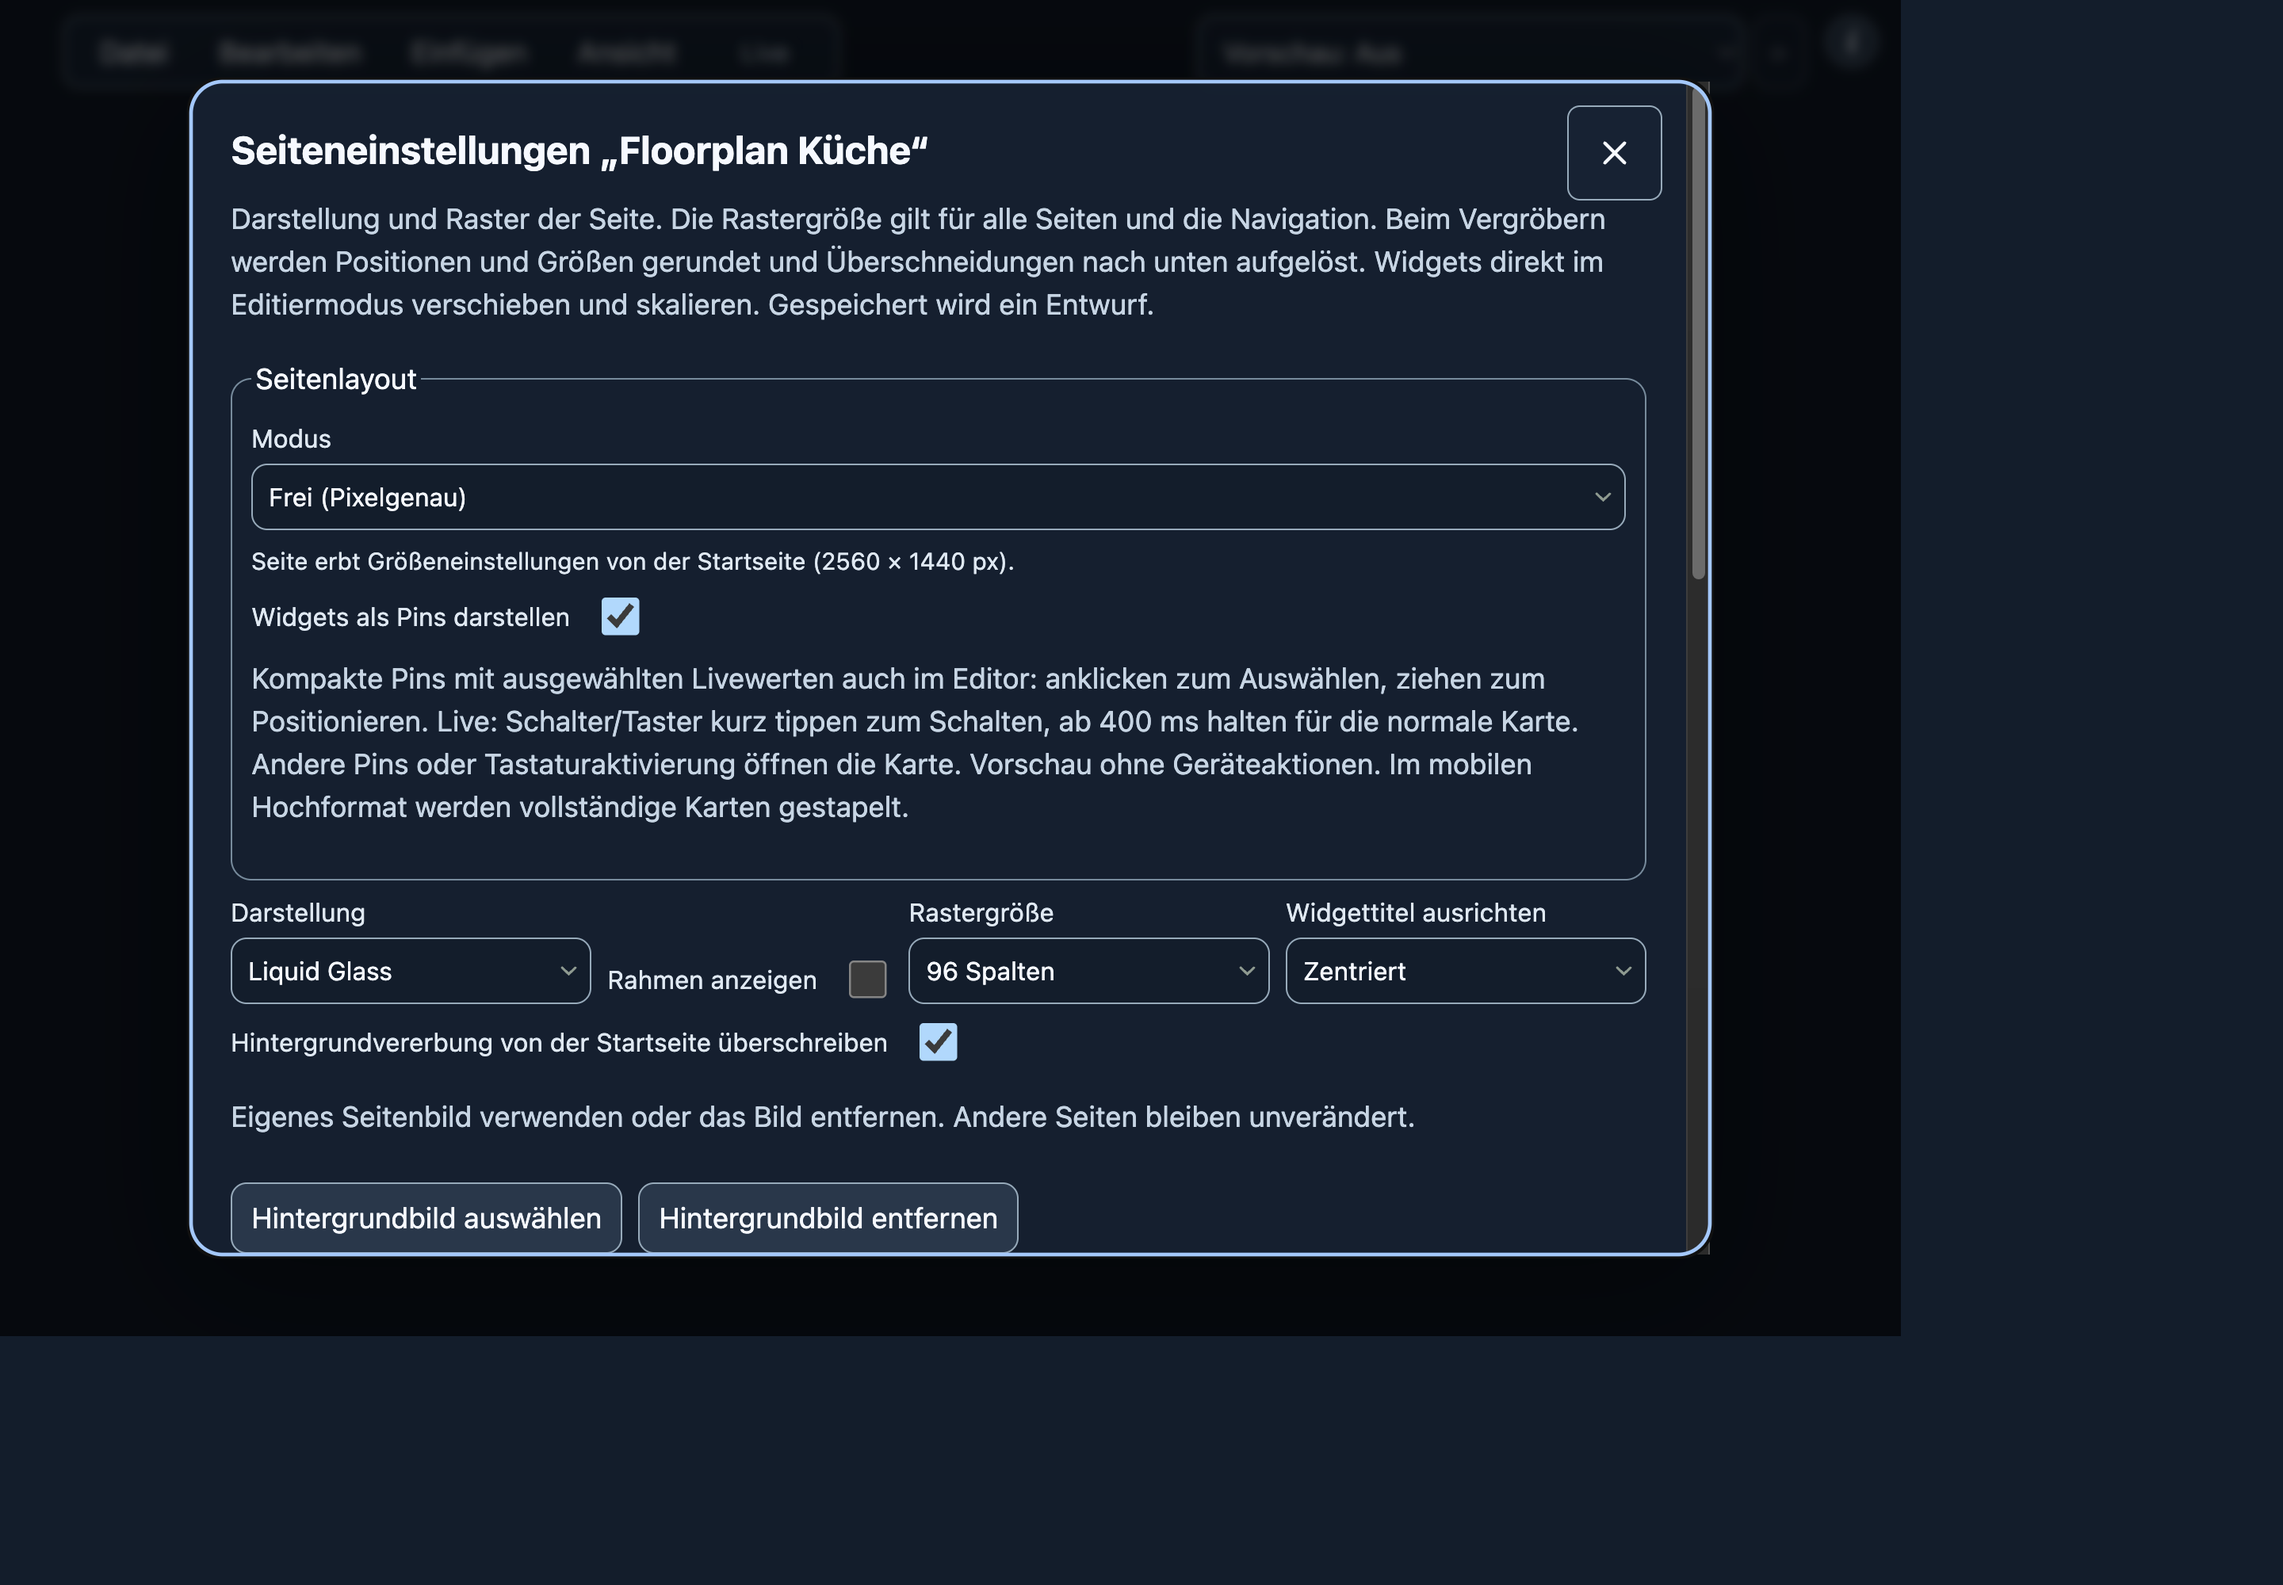
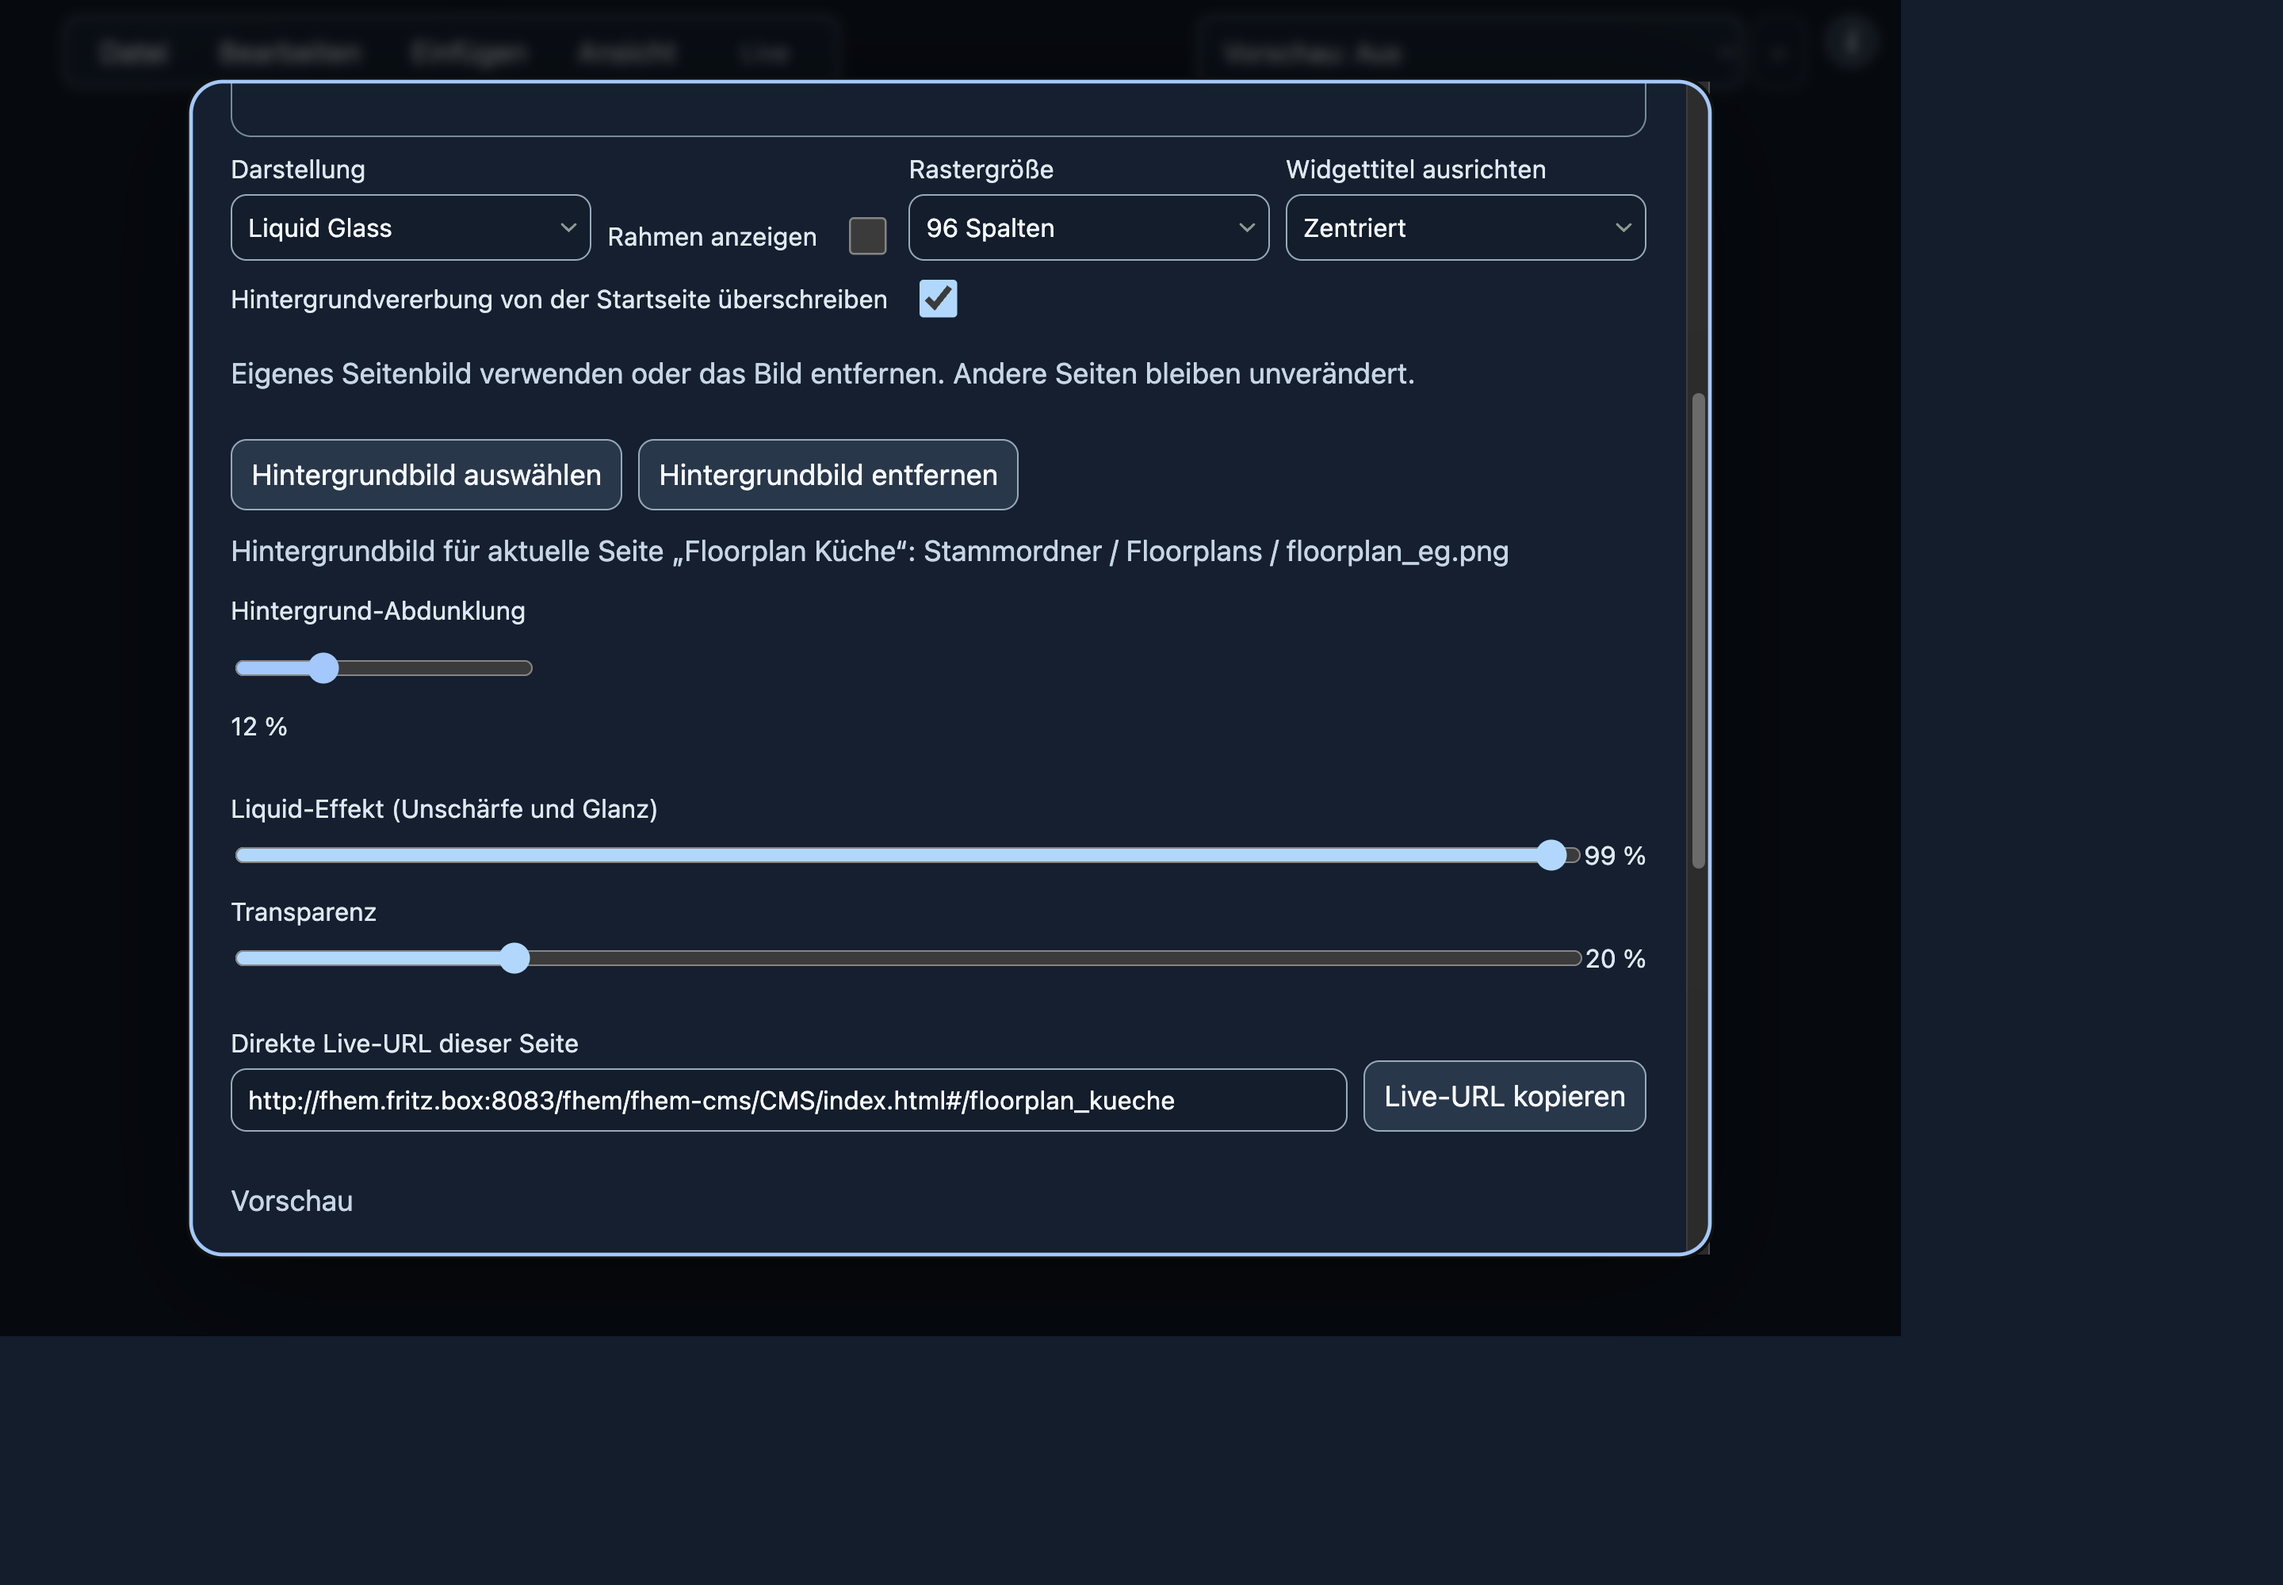
chore(release): prepare approved Floorplan 1.14.0 documentation and version
Refs #253

Changed region(s): [[0.0938, 0.062, 0.75, 0.713], [0.0938, 0.744, 0.4688, 0.806]]

diff --git a/www/fhem-cms/js/frontend-version.js b/www/fhem-cms/js/frontend-version.js
@@ -1,1 +1,1 @@
-export const FRONTEND_VERSION = '1.30.3-dev';
+export const FRONTEND_VERSION = '1.14.0';

diff --git a/README.md b/README.md
@@ -2,7 +2,25 @@
 
 Frontend zur Erstellung grafischer Oberflächen für FHEM, einschließlich freier Seiten und Inhalte wie in einem klassischen Content-Management-System.
 
-**Aktuelle stabile Version: 1.13.0**
+**Aktuelle stabile Version: 1.14.0**
+
+## Neu in 1.14.0
+
+- **Interaktiver Floorplan:** Grundriss als Seitenbild, kompakte Pins mit
+  ausgewählten Livewerten und vollständige normale Widgetkarten bei Bedarf.
+- Bildbezogene Prozentpositionen, Direktplatzierung mit Maus/Touch und
+  Tastatur-Feinjustierung; große Bedienflächen auch auf skalierten Seiten.
+- Schalter/Taster live kurz tippen zum Schalten oder mindestens 400 ms halten
+  für die Detailkarte; Editor und Vorschau senden keine Pin-Gerätebefehle.
+- Eigenes Hintergrundbild pro Seite trotz globaler Startseitenvererbung,
+  individuelle Abdunklung und optionale normale Karten auf Pin-Seiten.
+- Einheitliche Schließen-X in Dialogen und Widgets sowie große,
+  erst nach Auswahl eingeblendete Widget-Werkzeuge.
+- [Ausführliche Anleitung „Floorplan Küche“ mit elf echten Screenshots](docs/FLOORPLAN.md)
+  sowie die [GitHub-Wiki-Fassung](https://github.com/stapetz/fhem-cms/wiki/Floorplan-Kueche).
+
+Releaseumfang: #243–253, einschließlich der fünf Pin-Stories und ihrer
+abgenommenen Folgekorrekturen. Andere Entwicklungsänderungen sind nicht enthalten.
 
 ## Neu in 1.13.0
 

diff --git a/docs/ANWENDER.md b/docs/ANWENDER.md
@@ -355,7 +355,7 @@ geändert, liefert die neue erste Seite das gemeinsame Bild. Hat sie keines,
 erscheint auf allen Seiten der Theme-Hintergrund. Die Einstellungen werden als Entwurf gespeichert und
 erst beim Veröffentlichen auf der Homepage sichtbar. Verwendete Hintergrundbilder
 sind im Assetmanager gegen Löschen geschützt.
-**Neu auf dev:** Auf einzelnen Nicht-Startseiten erlaubt
+**Seit 1.14.0:** Auf einzelnen Nicht-Startseiten erlaubt
 **Hintergrundvererbung von der Startseite überschreiben** ein eigenes Bild
 oder bewusst keinen Bildhintergrund. Beispielsweise kann ein Grundriss das
 gemeinsame Standardbild ersetzen. Ausschalten der Ausnahme stellt die Vererbung
@@ -408,7 +408,7 @@ Uhr, Text und LinkWidget bleiben standardmäßig normale Karten. Im jeweiligen
 Widgetdialog können Sie mit **Nicht als Pin darstellen (normale Kachel behalten)**
 die Darstellung auf Pin-Seiten ändern.
 Im mobilen Hochformat erscheinen stets normale Karten untereinander.
-**Neu auf dev:** Auch der Editor zeigt kompakte Pins. Anklicken wählt aus und
+**Seit 1.14.0:** Auch der Editor zeigt kompakte Pins. Anklicken wählt aus und
 blendet die Werkzeuge darüber ein; Ziehen verschiebt direkt auf dem Grundriss.
 X/Y werden in Prozent des Bildes angezeigt und mit zwei Nachkommastellen
 gespeichert. Pfeile verschieben um einen Canvaspixel, Shift+Pfeile um zehn.
